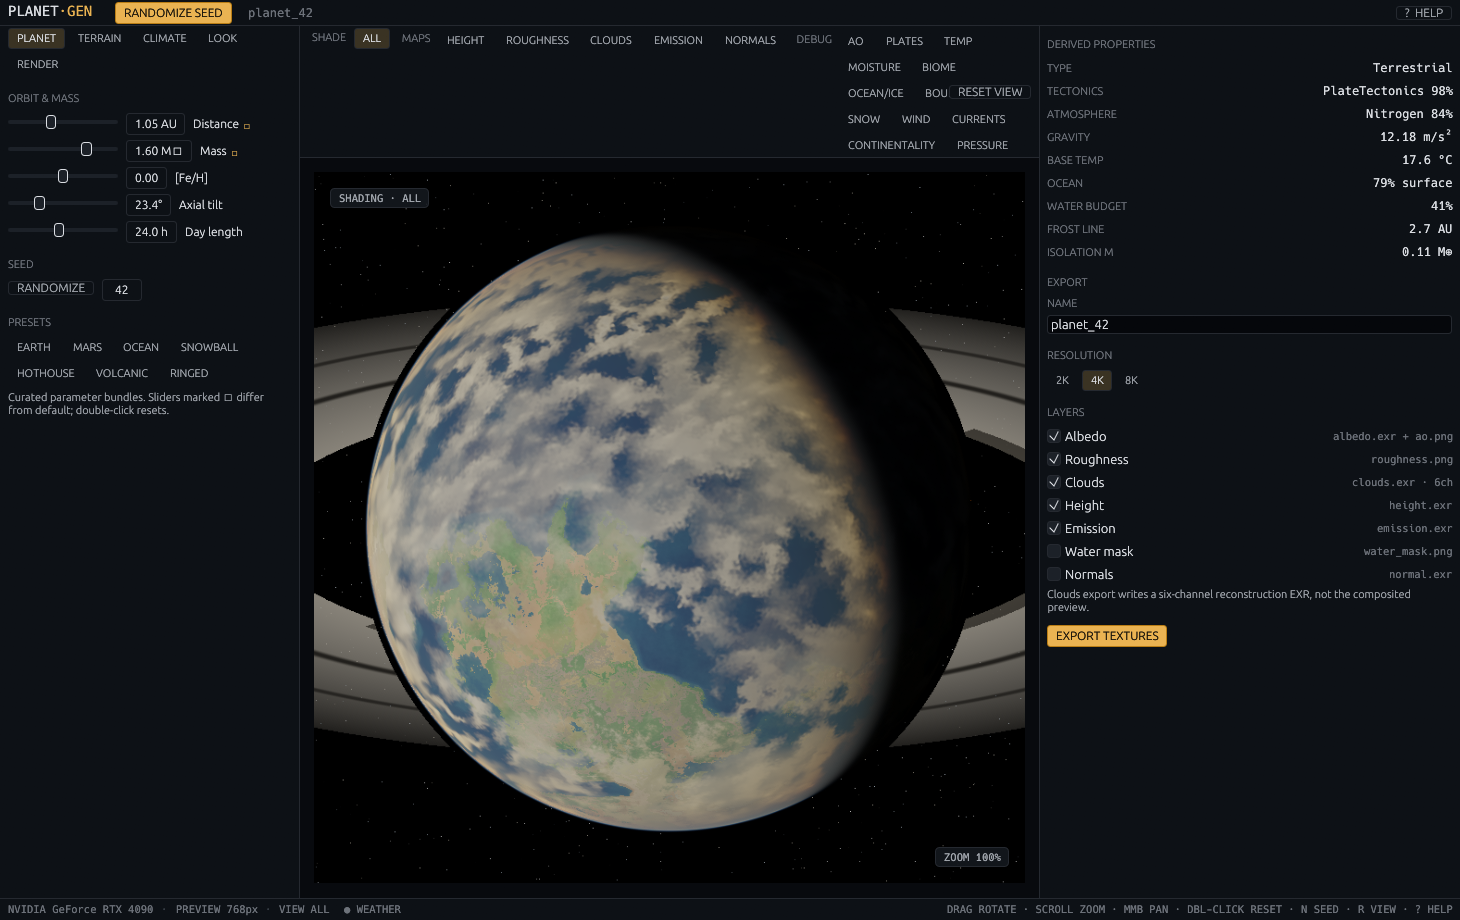
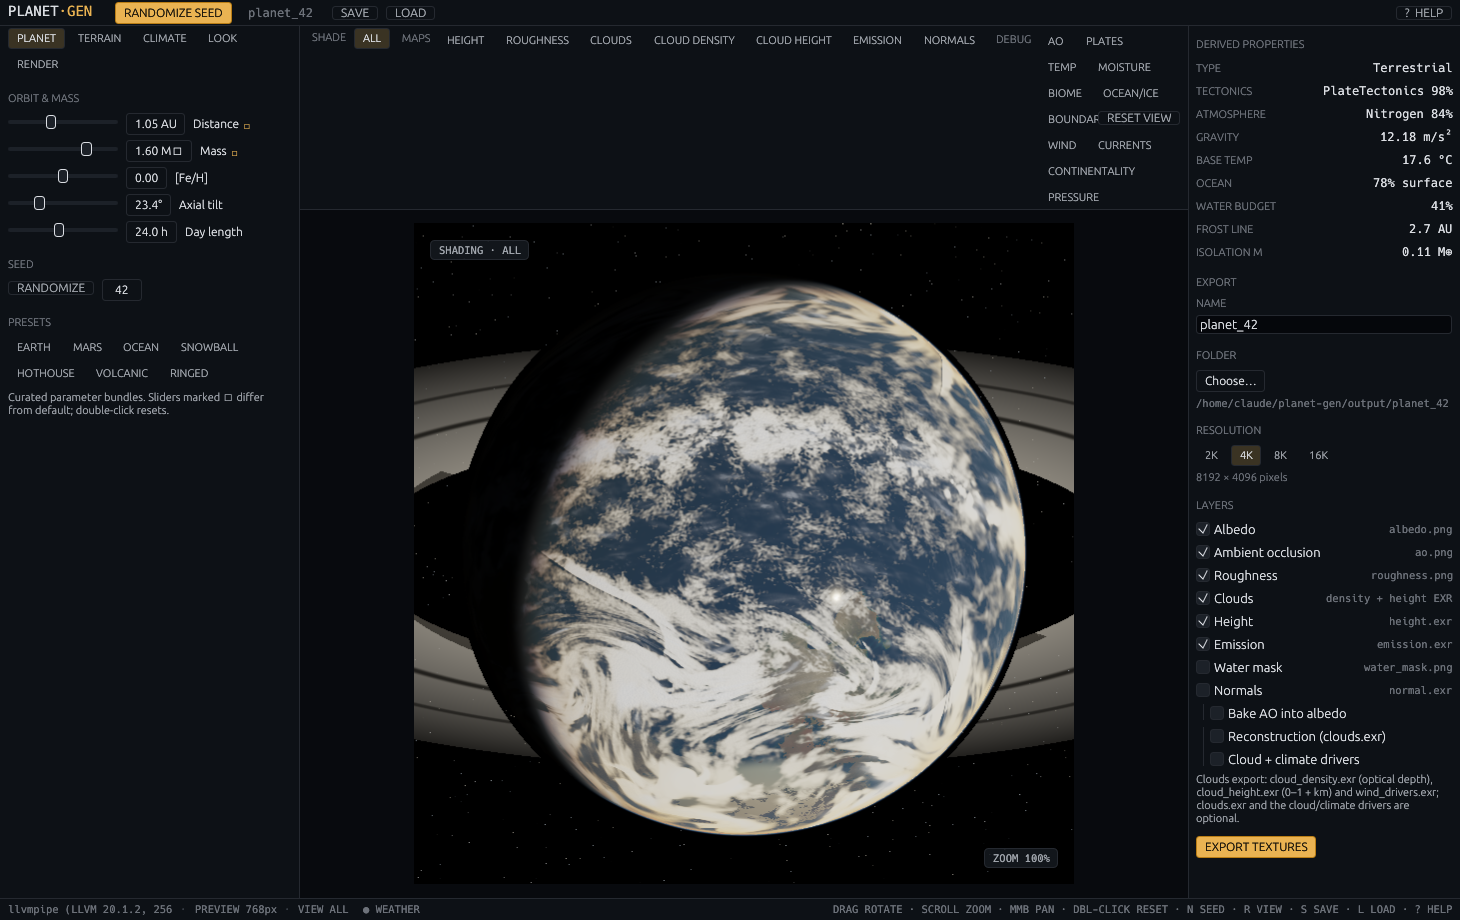
📝 Refresh README with new screenshots and current features
Recaptures all preset screenshots from the current app, adds a Plates
view with plate history, and documents plate motion history, cloud
synthesis and detail, smooth AO, save/load, the export folder, the
current tabs and shortcuts, export files, and the Blender cloud bridge.

Claude-Session: https://claude.ai/code/session_015xVzr2jrQbDmi2YDiEi4eS

diff --git a/README.md b/README.md
@@ -4,7 +4,7 @@
   <img src="assets/planet-gen-icon.png" width="96" alt="Planet Gen app icon">
 </p>
 
-GPU-accelerated procedural planet generator for VFX. Produces physically plausible rocky planets with plate tectonics, terrain, biomes, climate, clouds, and oceans from a handful of input parameters.
+GPU-accelerated procedural planet generator for VFX. Produces physically plausible rocky planets with plate tectonics, terrain, biomes, climate, weather-driven clouds, and oceans from a handful of input parameters, and exports them as equirectangular textures up to 16K.
 
 Built with Rust, wgpu (WebGPU), and egui.
 
@@ -15,81 +15,123 @@ Built with Rust, wgpu (WebGPU), and egui.
 ## Quick Start
 
 ```
-cargo run --bin planet-gen
+cargo run --release --bin planet-gen
 ```
 
-Requires a GPU with Vulkan, Metal, or DX12 support (most GPUs from 2018+).
+Requires a GPU with Vulkan, Metal, or DX12 support (most GPUs from 2018+) and OpenEXR for the native EXR writer:
+
+- **Linux:** `apt install libopenexr-dev pkg-config`
+- **macOS:** `brew install openexr`
+- **Windows:** `vcpkg install openexr:x64-windows`, then point `OPENEXR_INCLUDE_DIR` / `OPENEXR_LIB_DIR` at the install (see `.github/workflows/ci.yml`)
 
 ## Features
 
-- **Plate-driven continents** — Voronoi plate assignment on sphere, plate type controls land/ocean elevation with smooth boundary blending
-- **Continent controls** — sliders for number of continents (1-10), size variety (equal to supercontinent), and continental scale (noise frequency)
-- **Whittaker biome system** — temperature x moisture lookup with altitude zonation (forest, alpine, rock, snow)
-- **Hadley cell climate** — latitude-driven temperature, wind-terrain rain shadows, continentality effects
-- **Shallow volumetric clouds** — persistent GPU weather fields drive bounded ray-marched stratus, convection, cirrus, lighting, and surface shadows in preview and export
-- **Cloud synthesis** — weather systems on top of the solver: storm-track cyclones (counted and sized from the baroclinic wavelength) with comma heads, fronts and dry slots, ridges, tropical cyclones, ITCZ convective systems, west-coast stratocumulus decks, open cells, cumulus fields and jet cirrus; resolution-independent detail from 2K to 16K
-- **Atmosphere** — Mie scattering haze, star color temperature tinting
-- **Night lights** — procedural city lights with cloud occlusion and scattered glow
-- **GPU-rendered preview** — real-time cubemap-sampled sphere with diffuse + specular lighting, AO, normal mapping
+**Terrain and tectonics**
+- **Plate-driven continents** — Voronoi plates on the sphere; plate type sets land/ocean elevation with smooth boundary blending, mountain ranges, rifts, and ocean-floor detail
+- **Plate motion history** — the Geologic time slider runs plates about Euler poles for up to billions of years: continents drift, collide into supercontinents and rift apart again, leaving sutures, volcanic arcs, and eroded mountain belts
+- **Plates view** — plate tint, boundary types, and per-plate velocity arrows, mirroring the terrain shader's plate assignment
+- **Continent controls** — number of continents (1-10), size variety (equal sizes to supercontinent plus islands), and continental scale
 - **Progressive erosion** — GPU hydraulic erosion with moisture-weighted intensity
-- **Selective texture export** — height, albedo, normal, roughness, AO, water mask, emission, plus cloud density, height, and reconstruction data at up to 16K resolution
-- **Pressure-based wind** — continentality, pressure gradient, Coriolis deflection, terrain deflection
-- **Lava glow** — volcanic emission at plate boundaries with adjustable intensity
-- **Ocean sun glint** — PBR-correct specular reflection on water surface
-- **Ring system** — Saturn-like rings with Cassini gaps, planet shadow, tilt control
-- **Blender addon** — one-click import of exported textures with auto-wired Principled BSDF material
+
+**Climate and surface**
+- **Hadley cell climate** — latitude-driven temperature, pressure-gradient wind with Coriolis and terrain deflection, rain shadows, continentality
+- **Whittaker biome system** — temperature × moisture lookup with altitude zonation (forest, alpine, rock, snow) and polar ice
+- **Atmosphere** — Mie scattering haze and star color temperature tinting from blue O-stars to red M-dwarfs
+- **Night lights** — procedural city lights with cloud occlusion and scattered glow
+- **Lava glow, ocean sun glint, rings** — volcanic emission along plate boundaries, PBR specular on water, Saturn-like rings with gaps, tilt, and planet shadow
+
+**Clouds**
+- **Weather solver** — persistent GPU weather fields drive bounded ray-marched stratus, convection, and cirrus with lighting and surface shadows
+- **Cloud synthesis** — Clouds > Structure rebuilds each column with weather systems on top of the solver: storm-track cyclones with comma heads, fronts, and dry slots, ridges, tropical cyclones, ITCZ convective clusters, west-coast stratocumulus decks, open cells, cumulus fields, and jet cirrus; detail is resolution-independent, so 2K and 16K agree
+- **Cloud detail** — physical optical depth with two-stream shading and billow erosion turns thin veils into bright decks and broken cumulus in the preview; Clouds > Advanced > Thin lift raises faint cloud in both preview and export
+
+**Workflow**
+- **Instrument-panel UI** — tabbed control rail (Planet, Terrain, Climate, Look, Render), live derived properties, curated presets, and a help overlay (F1 or `?`)
+- **Save and load planets** — every parameter and the viewport state go to a JSON planet file
+- **Selective texture export** — albedo, AO, roughness, cloud density and height, height, emission, water mask, and normals at 2K, 4K, 8K, or 16K, into a folder you choose (remembered between sessions)
+- **Smooth AO** — `ao.png` is a broad, hill-scale occlusion field without pixel speckle; it can optionally be baked into the albedo
+- **Blender add-on** — one-click import of exported textures with an auto-wired Principled BSDF, plus a cloud bridge that adds billow detail to the exported clouds at render time
 
 ## Planet Types
 
-The app ships with curated presets (sidebar → PRESETS). Each preset is a full parameter bundle; the physics model derives type, tectonics, atmosphere, and climate from distance, mass, and metallicity.
+The app ships with curated presets (Planet tab → PRESETS). Each preset is a full parameter bundle; the physics model derives type, tectonics, atmosphere, and climate from distance, mass, and metallicity. All screenshots use seed 42.
 
 | Preset | Type | Screenshot |
 | --- | --- | --- |
-| **EARTH** — 1.0 AU, 1.0 M⊕ | Terrestrial · PlateTectonics | <img src="docs/images/earth.png" width="360"> |
+| **EARTH** — 1.0 AU, 1.0 M⊕ | Terrestrial · PlateTectonics · 14.9 °C | <img src="docs/images/earth.png" width="360"> |
 | **MARS** — 1.52 AU, 0.11 M⊕, dry & cold | Terrestrial · StagnantLid · ThinCO₂ | <img src="docs/images/mars.png" width="360"> |
 | **OCEAN** — no water loss, few landmasses | Terrestrial · 99% ocean | <img src="docs/images/ocean.png" width="360"> |
-| **SNOWBALL** — 2.7 AU, tilted-cold axis | IcyRocky · StagnantLid | <img src="docs/images/snowball.png" width="360"> |
+| **SNOWBALL** — 2.7 AU, tilted-cold axis | IcyRocky · StagnantLid · −22 °C | <img src="docs/images/snowball.png" width="360"> |
 | **HOTHOUSE** — 0.72 AU, 1.6 M⊕, overcast | Terrestrial · 62 °C base temp | <img src="docs/images/hothouse.png" width="360"> |
 | **VOLCANIC** — 26 plates, lava emission | Terrestrial · volcanic glow at plate boundaries | <img src="docs/images/volcanic.png" width="360"> |
-| **RINGED** — 1.6 M⊕ with ring system | Terrestrial · Saturn-like rings | <img src="docs/images/ringed.png" width="360"> |
-| **HOT ROCKY** — 0.11 AU (Distance slider) | HotRocky · 507 °C, no water | <img src="docs/images/hotrocky.png" width="360"> |
+| **RINGED** — 1.05 AU, 1.6 M⊕ with ring system | Terrestrial · Saturn-like rings | <img src="docs/images/ringed.png" width="360"> |
+| **HOT ROCKY** — Earth preset at 0.10 AU (Distance slider) | HotRocky · 544 °C | <img src="docs/images/hotrocky.png" width="360"> |
+
+### Plate history
+
+The Terrain tab's Geologic time slider replays plate motion before the present day. The PLATES view shows plate tint, plate boundaries, and each plate's velocity. Earth preset after 1,500 Myr of plate motion:
+
+<p align="center">
+  <img src="docs/images/plates.png" width="900" alt="Plates debug view after 1,500 Myr of plate motion, with plate boundaries and velocity arrows">
+</p>
 
 ## Usage
 
-The app opens with a sidebar of planet parameters and a 3D preview.
+The app opens with a tabbed control rail on the left, the 3D preview in the middle, and derived properties plus export settings on the right. Sliders marked with a dot differ from their default; double-click a slider to reset it.
 
-**Physics Parameters:**
-- **Distance (AU)** — Distance from star. Affects planet type and temperature.
-- **Mass (M_Earth)** — Planet mass. Affects gravity, tectonics, terrain roughness.
-- **[Fe/H]** — Stellar metallicity. Shifts the frost line.
-- **Tilt** — Axial tilt (0-90 deg). Affects seasonal variation and biome bands.
-- **Day (hours)** — Rotation period. Affects wind patterns and terrain lacunarity.
-- **Seed** — Random seed for all procedural generation.
+**Planet:** Distance (AU), Mass (M⊕), stellar metallicity [Fe/H], Axial tilt, Day length, Seed, and Presets.
 
-**Continent Controls:**
-- **Continents (1-10)** — Number of distinct landmasses. Directly sets continental plate count.
-- **Size Variety (0-1)** — Continent size distribution. 0 = equal sizes, 1 = supercontinent + islands.
-- **Continental Scale (0.5-4)** — Controls noise frequency for continent shape. Lower = bigger features.
+**Terrain:**
+- **Continents** — Continent scale, number of continents (1-10), size variety (0 = equal sizes, 1 = supercontinent + islands)
+- **Water & erosion** — Water loss (0 = ocean world, 1 = no surface water), erosion iterations, hydraulic erosion toggle
+- **Tectonic detail** — plate count (0 = auto from mass), Geologic time (Myr of plate motion), mountain height, range width, shape warp, detail, optional surface age override
 
-**Visual Overrides:**
-- **Mountain scale / Detail** — Terrain feature amplitude
-- **Water Loss** — Sea level control (0 = ocean world, 1 = desert world)
-- **Cloud coverage / type / storms** — Atmosphere visuals
-- **Clouds > Structure (0-1)** — Cloud synthesis strength: 0 = the weather solver's raw field, 1 = weather systems and cloud regimes (preview and export)
-- **Season** — Winter/equinox/summer for biome and cloud response
-- **Star color** — Blue O-star to red M-dwarf, tints all lighting
+**Climate:**
+- **Atmosphere** — moisture and season
+- **Clouds** — Coverage, Opacity, Detail (0 = raw weather field, 1 = billowed margins and bright cores), Structure (0 = the solver's raw field, 1 = weather systems and cloud regimes, preview and export), Advanced > Thin lift, wind strength and transport
+- **Storms** — storm count and size
 
-**Preview:** Drag to rotate, scroll to zoom, middle-click to pan. View modes: Normal, Heightmap, Biome, Climate, Plates.
+**Look:** sun azimuth and elevation, star color, relief, night-side development and light color, ring radii/tilt/opacity, lava glow, and per-layer surface and sky toggles.
 
-**Export:** Select layers via checkboxes (height, albedo, normals, roughness, water mask, clouds, emission), choose resolution, and export as equirectangular EXR files.
+**Preview:** Drag to rotate, scroll to zoom, middle-click to pan, double-click to reset. The view bar switches between the lit planet (ALL), texture maps (height, roughness, clouds, cloud density, cloud height, emission, normals, AO), and debug views (plates, temperature, moisture, biome, ocean/ice, boundaries, snow, wind, currents, continentality, pressure).
 
-Export resolution denotes image height: **16K** writes 32,768 × 16,384 pixels. Both 8K and 16K use a bounded 2,048px erosion pass whose delta is reconstructed onto the full-resolution terrain. GPU tiles and row workers remain bounded; 16K PNG layers stream directly to scanlines instead of materializing a full floating-point intermediate. 16K allows up to 12 GiB of owned working memory, including the 6 GiB terrain. Weather simulation remains capped at 384px per face; cloud geometry filtering and normalized height channels also apply to 16K exports.
+**Shortcuts:** `N` new seed, `R` reset view, arrow keys rotate, `+`/`-` zoom, `S` save, `Ctrl+S` overwrite the current file, `Ctrl+Shift+S` save a numbered snapshot, `L` load, `F1` or `?` help.
 
-**Blender addon:** Install `blender_addon/` in Blender 4.x:
+**Export:** Pick a folder (Choose…), a resolution, and layers, then press EXPORT TEXTURES. The folder is remembered between sessions.
+
+| Layer | Files |
+| --- | --- |
+| Albedo | `albedo.png` (optionally with AO baked in) |
+| Ambient occlusion | `ao.png` |
+| Roughness | `roughness.png` |
+| Clouds | `cloud_density.exr`, `cloud_height.exr`, `wind_drivers.exr`; opt-in `clouds.exr` (reconstruction) and `cloud_drivers.exr` / `climate_drivers.exr` |
+| Height | `height.exr` |
+| Emission | `emission.exr` |
+| Water mask | `water_mask.png` |
+| Normals | `normal.exr` |
+
+Export resolution denotes image height: **16K** writes 32,768 × 16,384 pixels. 8K and 16K run a bounded 2,048px erosion pass whose delta is reconstructed onto the full-resolution terrain. GPU tiles and row workers stay bounded, and 16K PNG layers stream directly to scanlines; 16K allows up to 12 GiB of owned working memory, including the 6 GiB terrain. Weather simulation stays capped at 384px per face.
+
+**Blender add-on:** Install `blender_addon/` in Blender 4.1 or newer:
 1. Zip the addon: `cd blender_addon && zip -r ../planet_gen_blender.zip .`
 2. In Blender: Edit > Preferences > Add-ons > Install from Disk > select `planet_gen_blender.zip`
 3. Enable "Planet Gen Importer"
 4. 3D Viewport sidebar (N panel) > Planet Gen tab: "Import Planet" then "Create Planet"
+5. For clouds, select a shell sphere and press "Drive Clouds"; "Aligned Surface" puts the albedo on the planet in the same frame
+
+See [blender_addon/README.md](blender_addon/README.md) for the cloud bridge's controls and headless use.
+
+## Cloud Textures
+
+Export regenerates the weather inputs at bounded resolution from an immutable snapshot, builds the same weather-system catalogue as the preview, and writes the synthesized cloud (Clouds > Structure; `cloud_drivers.exr` keeps the solver's raw fields):
+
+- `cloud_density.exr` — radial optical depth in `Y`
+- `cloud_height.exr` — normalized altitude in `Y` (0–1 represents 0–20 km) and the density-weighted layer midpoint in kilometres in `height_km`; altitudes above 20 km saturate `Y` while `height_km` keeps the full value
+- `wind_drivers.exr` — tangent wind and speed at weather resolution, used by the Blender cloud bridge
+
+Clear texels are zero in density and height. Use the density texture for cloud opacity, not height as a mask. In Blender, use Non-Color data and multiply the normalized height by 20 to recover kilometres. The CLOUD DENSITY and CLOUD HEIGHT views show exactly these maps and work regardless of cloud visibility and opacity.
+
+Cloud altitude blends neighbouring weather cells by optical mass, so almost-empty cirrus cells next to dense low banks do not produce altitude spikes when the map drives displacement.
 
 ## Architecture
 
@@ -100,73 +142,77 @@ User Parameters
 PlanetParams --> DerivedProperties (physics model)
      |                    |
      v                    v
-generate_plates()    PreviewUniforms
-     |                    |
-     v                    v
-TerrainComputePipeline   preview_cubemap.wgsl
-  (plates.wgsl)          (fragment shader)
-     |                        |
-     v                        v
- TectonicTerrain         Lit sphere with
-  (6-face cubemap)       biomes, clouds,
-     |                   atmosphere, cities
-     v
- ErosionPipeline
-  (erosion.wgsl)
+generate_plates()    WeatherSnapshot --> weather cubemaps
+tectonic_history          |                (weather_field.wgsl)
+     |                    v
+     v               PreviewUniforms + cloud synthesis catalogue
+TerrainComputePipeline    |
+  (plates.wgsl)           v
+     |               preview_cubemap.wgsl
+     v                (lit sphere: biomes, clouds,
+ TectonicTerrain       atmosphere, cities, rings)
+  (6-face cubemap)
      |
      v
-  EXR Export
+ ErosionPipeline (erosion.wgsl) --> terrain_ao
+     |
+     v
+ Tiled EXR/PNG export (cloud_export.wgsl, map shaders)
 ```
 
-**Terrain pipeline:** Plate centers (Fibonacci sphere) are uploaded to GPU. The `plates.wgsl` compute shader assigns each pixel to the nearest plate via Voronoi, then generates heightmap from plate type elevation + noise detail + mountain ridges + ocean floor variation.
+**Terrain pipeline:** Plate centers (Fibonacci sphere) and, with Geologic time, their motion history are uploaded to the GPU. `plates.wgsl` assigns each pixel to the nearest plate and builds the heightmap from plate elevation, noise detail, mountain ridges, sutures, arcs, rifts, and ocean-floor variation.
 
-**Weather and preview pipeline:** `weather.rs` publishes bounded, revisioned mass and geometry cubemaps from an immutable snapshot. The fragment shader samples those fields with the height cubemap, computes temperature/moisture/biomes, and ray marches the bounded cloud volume with lighting, atmosphere, and night lights. Disabling clouds exits the density path early.
-
-**Cloud textures:** Export regenerates the same weather inputs at bounded resolution from its immutable snapshot, builds the same weather-system catalogue as the preview, and writes two FLOAT textures of the synthesized cloud (Clouds > Structure; `cloud_drivers.exr` keeps the solver's raw fields): `cloud_density.exr` stores radial optical depth in `Y`; `cloud_height.exr` stores normalized altitude in `Y` (0–1 represents 0–20 km) and the density-weighted cloud layer midpoint in kilometres above the planet surface in `height_km`. Clear texels are zero in both maps. Altitudes above 20 km saturate the normalized channel while the physical channel preserves their full value. The Maps menu offers **CLOUD DENSITY** (black to white as optical depth increases, using `1 - exp(-Y)`) and **CLOUD HEIGHT** (black = 0 km, white = 20 km). Both views use the same radial column sampling as export and work independently of cloud visibility and opacity. The lit cloud preview continues to use the generated density and geometry cubemaps for volumetric rendering. In Blender, use Non-Color data and multiply the height texture's normalized value by 20 to recover kilometres below the normalization ceiling; use `height_km` for exact altitude beyond that ceiling. Older height exports stored kilometres directly in `Y`, so their values above 1 appear white in the image editor.
-
-For compatibility, `clouds.exr` also retains direct optical depth (`Y`) and reconstruction channels (`coverage`, `base_km`, `thickness_km`, `character`, `cirrus`). The Clouds export checkbox writes all three files together. The Blender importer loads the two new textures as Non-Color data.
-
-Cloud altitude blends neighbouring weather cells using their optical mass, filtering base and thickness moments before normalizing. This prevents almost-empty high cirrus cells from producing abrupt altitude spikes beside dense low banks when the map is used for displacement. The filter spans one weather-cell neighbourhood at every export resolution; density and cloud coverage remain unchanged. Use the density texture for cloud opacity, rather than treating height as an opacity mask.
+**Weather and preview pipeline:** `weather.rs` publishes bounded, revisioned mass and geometry cubemaps from an immutable snapshot. The fragment shader samples them with the height cubemap, computes temperature, moisture, and biomes, and ray marches the bounded cloud volume, with cloud synthesis rebuilding each column from the solver's fields plus synoptic systems and climatological regimes.
 
 ## Project Structure
 
 ```
 src/
-  main.rs             -- App entry point
-  app.rs              -- egui UI, parameter sliders, pipeline orchestration
-  gpu.rs              -- wgpu device singleton
-  planet.rs           -- Planet physics model and derived properties
-  plates.rs           -- CPU plate generation (Fibonacci sphere, Voronoi, clustering)
-  terrain_compute.rs  -- GPU terrain compute pipeline + erosion pipeline
-  preview.rs          -- Preview renderer (cubemap upload, render-to-texture)
-  export.rs           -- Tiled equirectangular EXR export with selective layers
-  cube_sphere.rs      -- Cube-to-sphere coordinate mapping
-  noise.rs            -- GPU noise test harness
+  main.rs               -- App entry point
+  app.rs                -- egui UI, parameter controls, pipeline orchestration
+  ui/                   -- Instrument-panel theme and widgets
+  gpu.rs                -- wgpu device singleton
+  planet.rs             -- Planet physics model and derived properties
+  planet_file.rs        -- Save/load planet files
+  plates.rs             -- CPU plate generation (Fibonacci sphere, Voronoi, clustering)
+  tectonic_history.rs   -- Plate motion history (Euler poles, collisions, rifting)
+  terrain_compute.rs    -- GPU terrain, wind field, and erosion pipelines
+  terrain_ao.rs         -- Smooth hill-scale ambient occlusion
+  weather.rs            -- Revisioned cloud mass and geometry cubemaps
+  cloud_synthesis.rs    -- Weather-system catalogue for cloud synthesis
+  preview.rs            -- Preview renderer, uniforms, GPU field bindings
+  export.rs             -- Tiled equirectangular export with selective layers
+  export_staging.rs     -- Memory-mapped staging for large exports
+  openexr_writer.rs     -- Native OpenEXR writer (C++ bridge)
   shaders/
-    plates.wgsl           -- Terrain compute: plate assignment + terrain generation
-    preview_cubemap.wgsl  -- Preview fragment: biomes, climate, clouds, atmosphere
-    erosion.wgsl          -- Hydraulic erosion simulation
-    normal_map.wgsl       -- Normal map from heightmap (export)
-    albedo_map.wgsl       -- Albedo map with biome colors (export)
-    roughness_map.wgsl    -- Roughness map (export)
-    ao_map.wgsl           -- Ambient occlusion map (export)
-    noise.wgsl            -- 3D simplex noise
-    cube_sphere.wgsl      -- Cube-to-sphere mapping
+    plates.wgsl              -- Terrain compute: plate assignment + terrain generation
+    preview_cubemap.wgsl     -- Preview fragment: biomes, climate, clouds, atmosphere
+    weather_field.wgsl       -- Cloud mass and geometry field generation
+    cloud_density.wgsl       -- Shared preview/export cloud density
+    cloud_synthesis.wgsl     -- Weather systems, cloud regimes, resolution-free detail
+    cloud_export.wgsl        -- Optical depth and reconstruction export
+    erosion.wgsl             -- Hydraulic erosion simulation
+    albedo_map.wgsl, normal_map.wgsl, roughness_map.wgsl, emission_map.wgsl
+                             -- Export map shaders
+blender_addon/          -- Blender importer and cloud bridge
 ```
 
 ## Roadmap
 
 See [Plans.md](Plans.md) for the full implementation plan.
 
-- [x] Phase 1-3: Scaffold, cube-sphere, planet physics
-- [x] Phase 4: Biomes, climate, atmosphere, craters
-- [x] Phase 5.1-5.18: Export, clouds, cities, visual polish, GPU plate terrain, pressure wind
-- [x] Phase 5.19: Climate model refinement (Kaspi & Showman, ExoPlaSim scaling)
-- [x] Phase 5.20: Wind-shaped clouds (per-pixel streamline tracing)
-- [x] Phase 7: Blender importer addon
-- [x] Phase 8: Advanced visual features (lava, rings, ocean glint, lens flare)
-- [ ] Phase 9: Advanced tectonics (plate motion simulation, mantle convection)
+- [x] Phase 1-4: Scaffold, cube-sphere, planet physics, biomes, climate, atmosphere, craters
+- [x] Phase 5: Export, clouds, cities, GPU plate terrain, wind, shallow volumetric clouds, save/load
+- [x] Phase 7: Blender importer add-on
+- [x] Phase 8: Lava, rings, ocean glint, lens flare, smooth AO
+- [x] Phase 9a-9b: Boundary physics and plate motion history
+- [ ] Phase 9c: Mantle convection
 - [x] Phase 10: Polish & distribution (GPU error handling, CI, README)
+- [x] Phase 11: Instrument-panel UI
+- [x] Phase 12: 8K export stability
+- [x] Phase 13: Blender cloud bridge
+- [x] Phase 14: Preview cloud detail
+- [x] Phase 15: Cloud synthesis
 
 ## License
 
